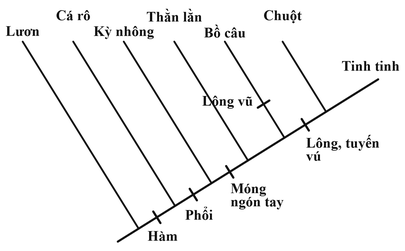
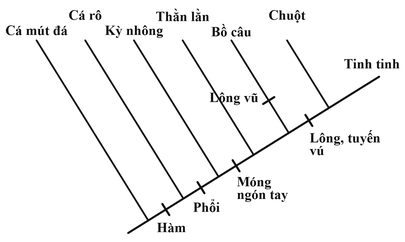
Fix img106, img144, img271
- img106: full PVC equation nCH₂=CHCl → (CH₂−CHCl)ₙ (the source crop had lost Cl); width 340.
- img144: the jawless taxon is Cá mút đá, not Lươn (eels have jaws).
- img271: white background under the y = x² − 2x − 1 label so the y-axis
  no longer turns its minus sign into a plus.

diff --git a/src/theory_review/img106.html b/src/theory_review/img106.html
@@ -1,4 +1,4 @@
-<!-- width: 279 -->
+<!-- width: 340 -->
 <style>
 .eq{font-size:30px;white-space:nowrap}
 .pl{background:linear-gradient(#111,#111) no-repeat;background-size:100% 0.05em;background-position:0 57%}
@@ -6,4 +6,4 @@ sub{font-size:0.62em;vertical-align:-0.3em}
 .arr{display:inline-flex;flex-direction:column;align-items:center;line-height:1;vertical-align:0.66em;margin:0 0.1em 0 0.55em}
 .arr .lab{font-size:0.62em;margin-bottom:0.02em}
 </style>
-<div class="eq">CH=CH<sub>2</sub><span class="arr"><span class="lab">t<sup style="font-size:0.75em">o</sup>, p, xt</span><svg width="118" height="14" viewBox="0 0 118 14"><line x1="0" y1="7" x2="116" y2="7" stroke="#111" stroke-width="1.3"/><path d="M108,1.5 L117,7 L108,12.5" fill="none" stroke="#111" stroke-width="1.3"/></svg></span><span class="pl" style="padding-left:0.3em">(</span>CH−CH<sub>2</sub><span class="pl" style="padding-right:0.25em">)<sub>n</sub></span></div>
+<div class="eq">nCH<sub>2</sub>=CHCl<span class="arr"><span class="lab">t<sup style="font-size:0.75em">o</sup>, p, xt</span><svg width="118" height="14" viewBox="0 0 118 14"><line x1="0" y1="7" x2="116" y2="7" stroke="#111" stroke-width="1.3"/><path d="M108,1.5 L117,7 L108,12.5" fill="none" stroke="#111" stroke-width="1.3"/></svg></span><span class="pl" style="padding-left:0.3em">(</span>CH<sub>2</sub>−CHCl<span class="pl" style="padding-right:0.25em">)<sub>n</sub></span></div>

diff --git a/src/theory_review/img144.py b/src/theory_review/img144.py
@@ -7,7 +7,7 @@ R, E = np.array([28.0, 1.0]), np.array([97.0, 44.0])
 u = (E - R) / np.linalg.norm(E - R)
 nrm = np.array([-u[1], u[0]])
 bd = np.array([-0.62, 1.0])               # branch direction (up-left)
-names = ['Lươn', 'Cá rô', 'Kỳ nhông', 'Thằn lằn', 'Bồ câu', 'Chuột']
+names = ['Cá mút đá', 'Cá rô', 'Kỳ nhông', 'Thằn lằn', 'Bồ câu', 'Chuột']
 fr = [0.08, 0.22, 0.36, 0.50, 0.64, 0.80]
 nodes = [R + f * (E - R) for f in fr]
 ax.plot([R[0], E[0]], [R[1], E[1]], color=INK, lw=1.6, solid_capstyle='round')

diff --git a/src/theory_review/img271.py b/src/theory_review/img271.py
@@ -17,5 +17,5 @@ T(ax, 2.0, 0.3, '$2$')
 T(ax, -1.0, -0.33, '$-1$', bg=True)
 T(ax, 0.22, -0.32, '$O$', bg=True)
 T(ax, 2.0, 3.0, '$y=-x^2+3$')
-T(ax, -1.0, -2.05, '$y=x^2-2x-1$')
+T(ax, -1.0, -2.05, '$y=x^2-2x-1$', bg=True)
 save(fig, 'img271')
